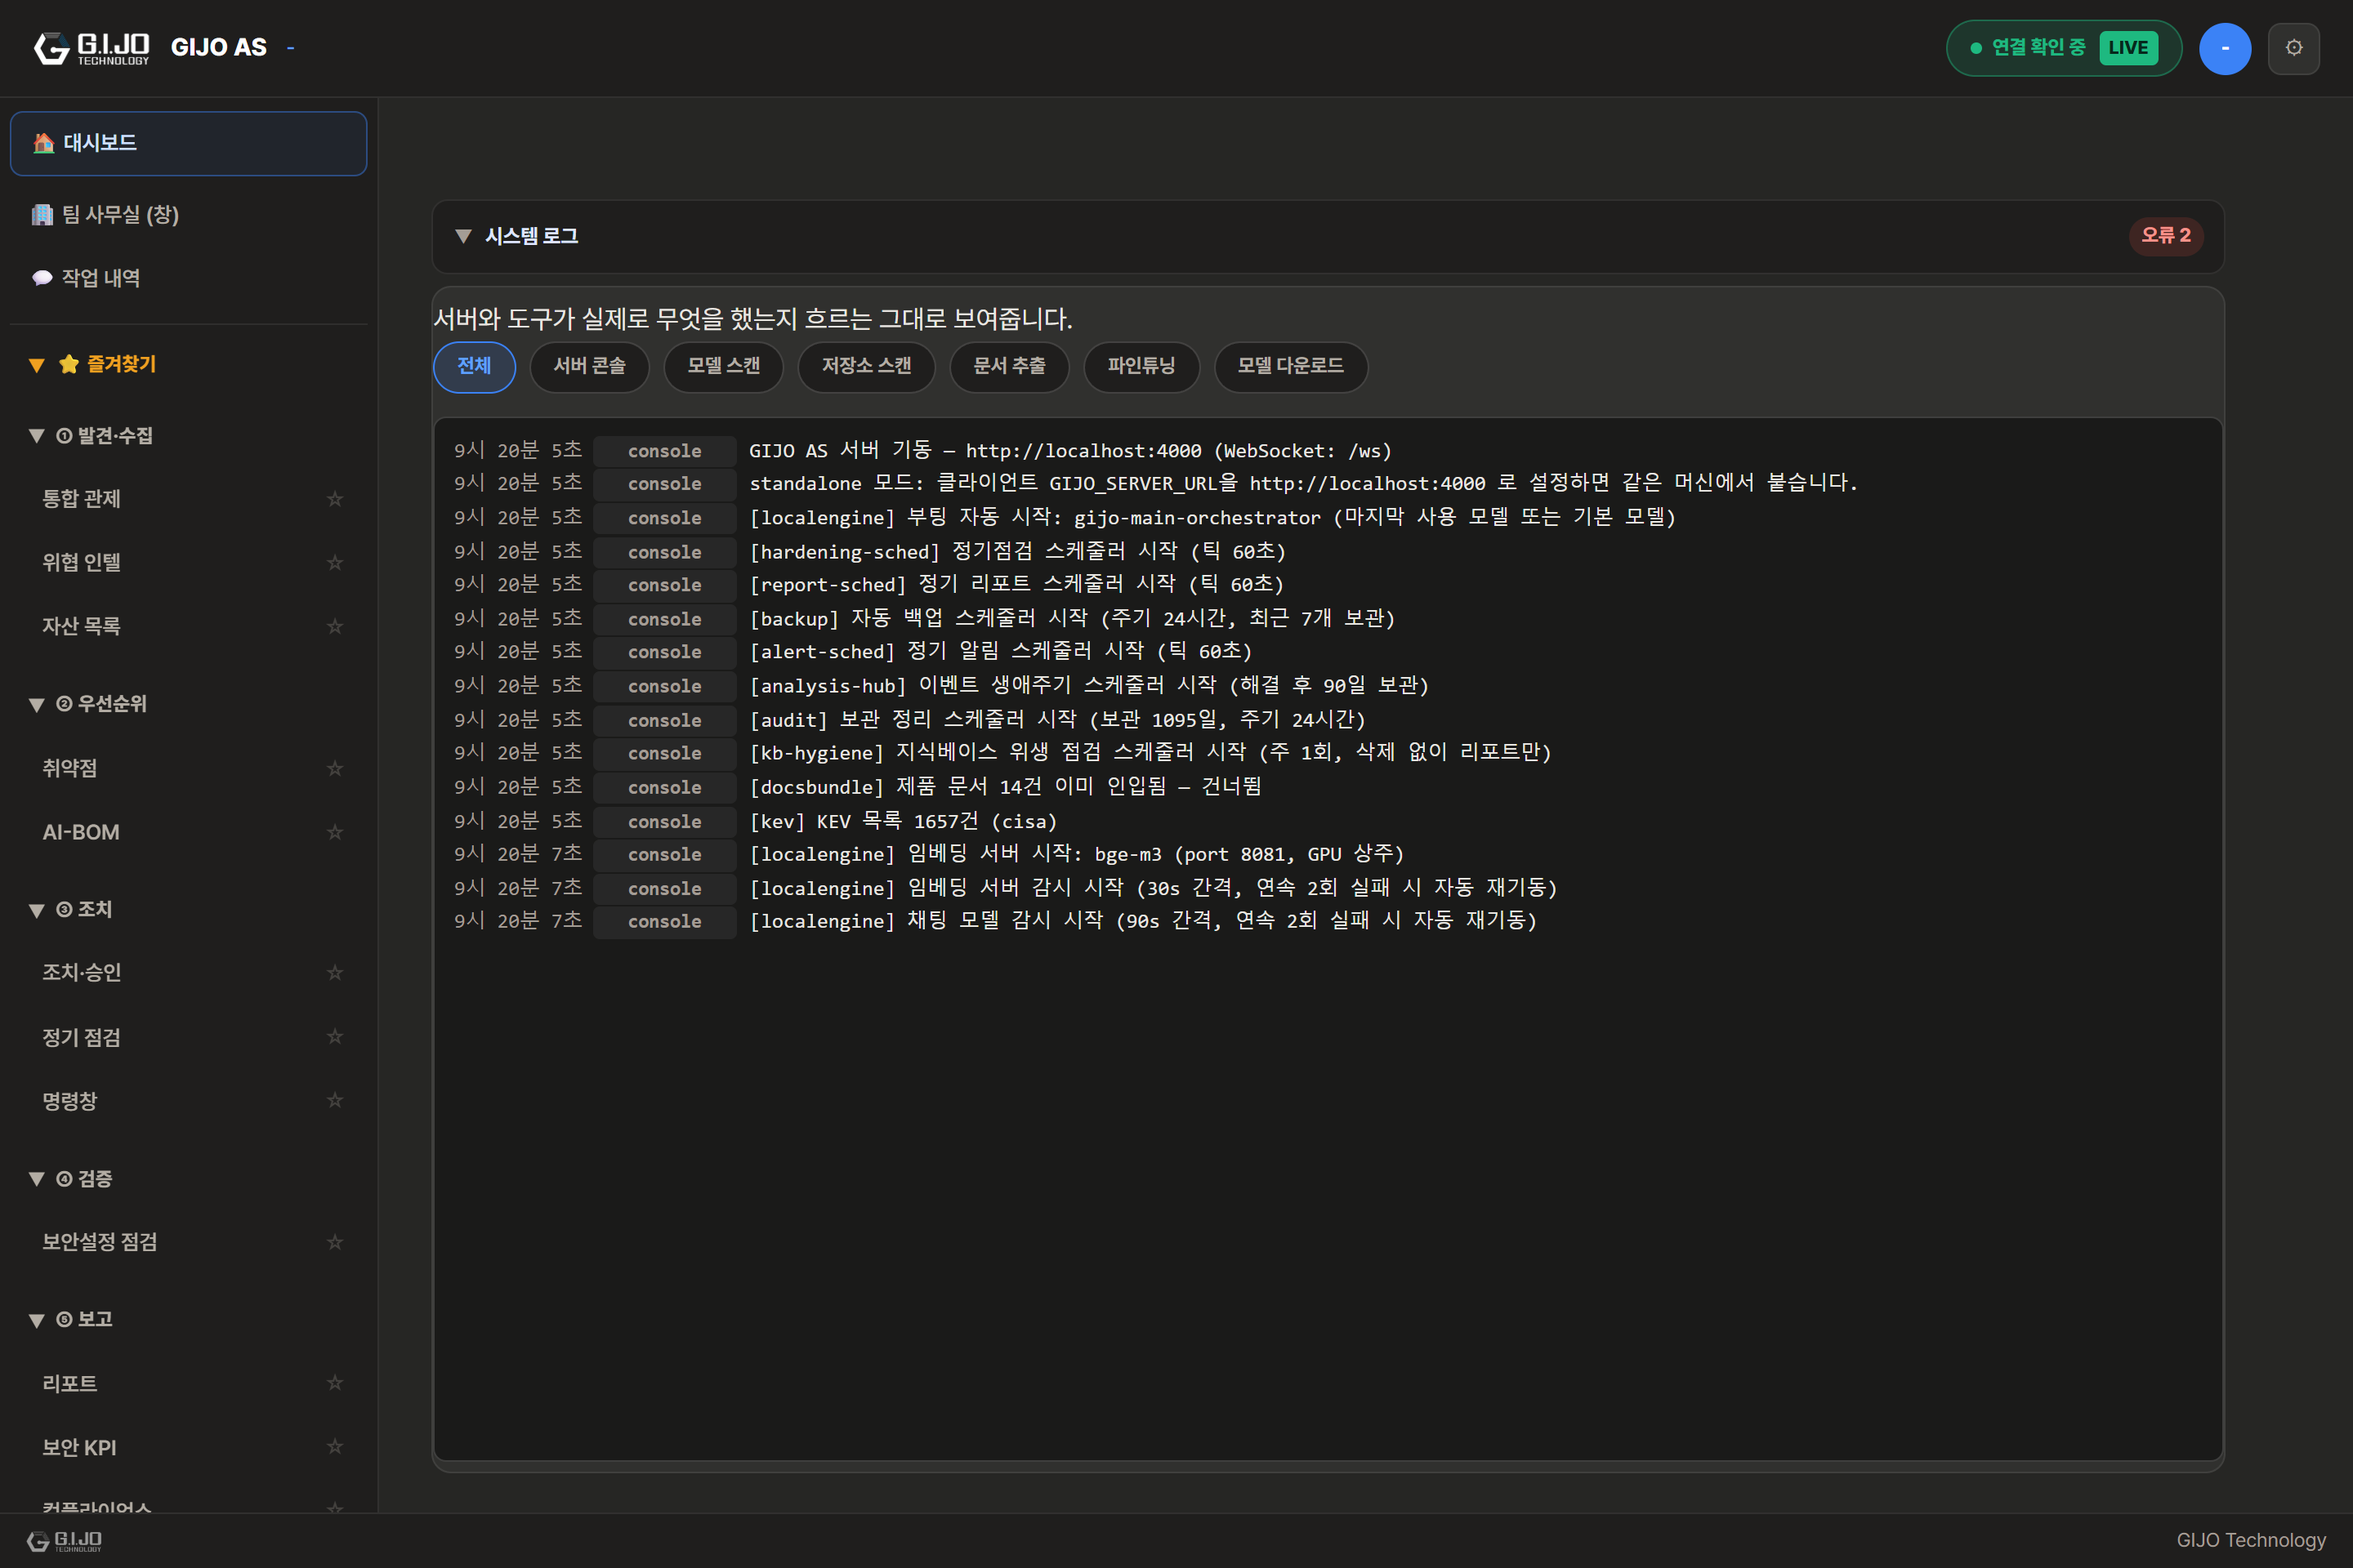
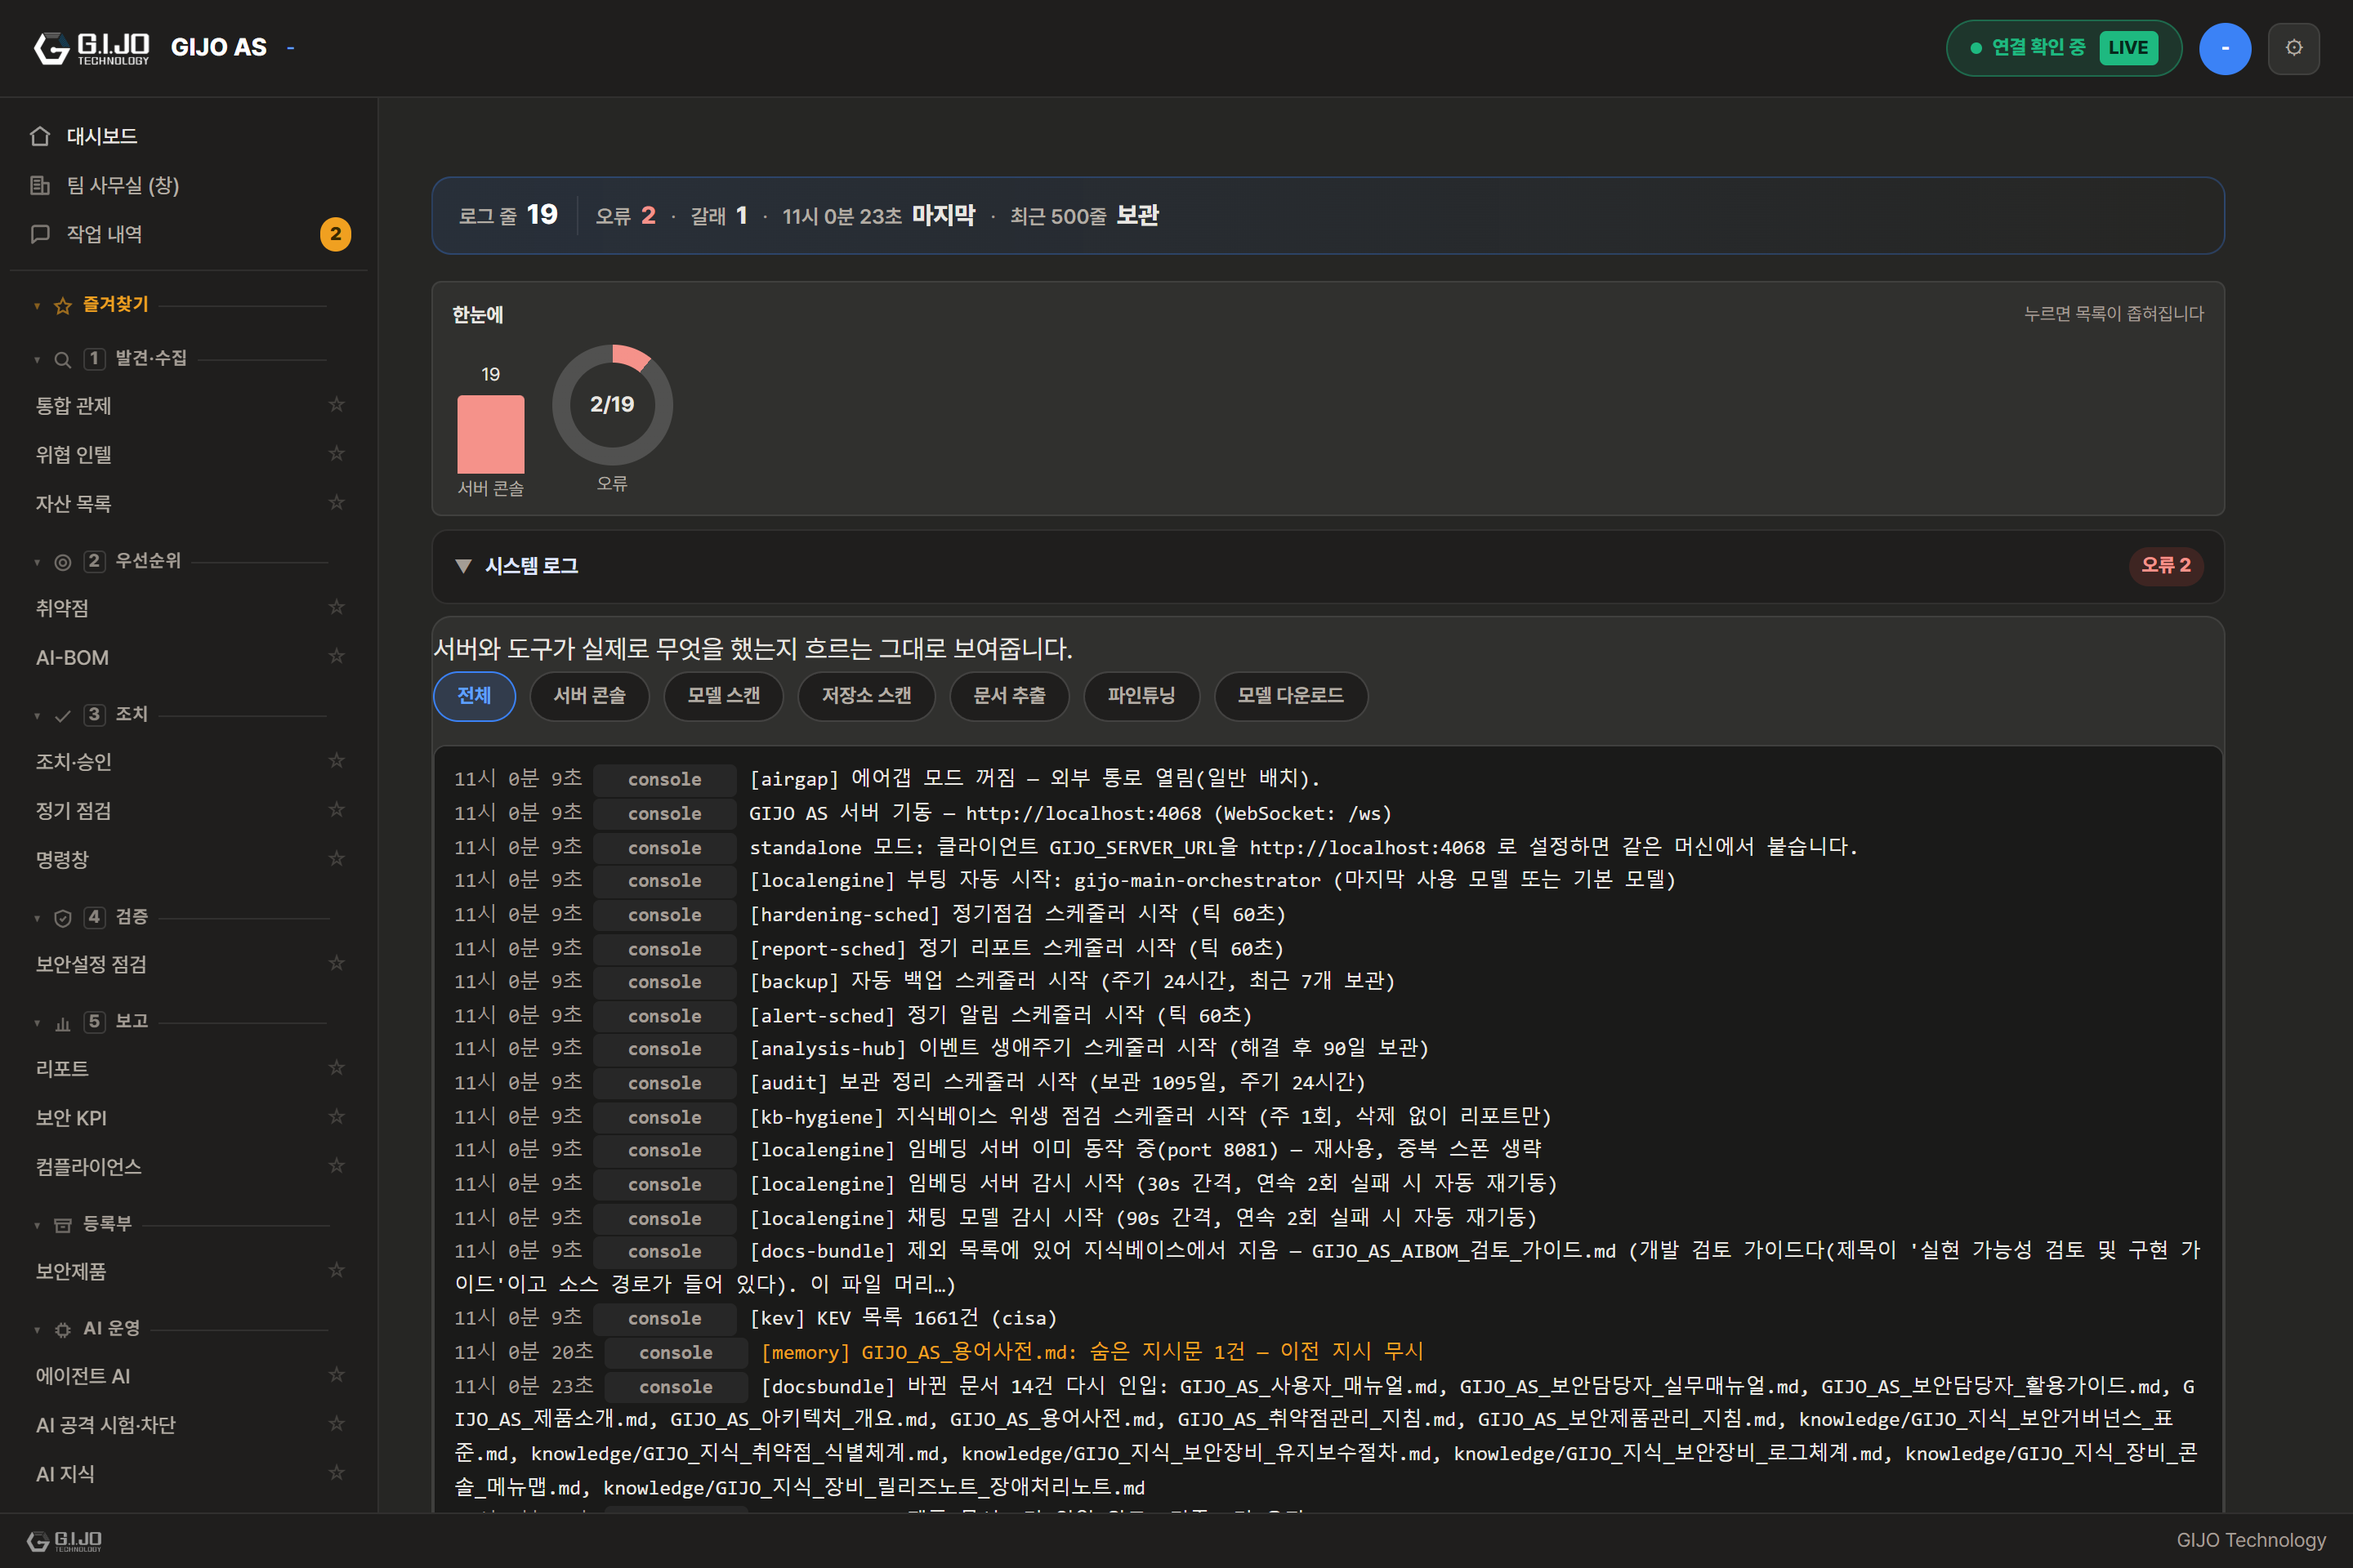
시연 덱 스크린샷 재촬영 — 5.0.1 화면을 5.7.2로 (전-1). 격리 서버(4068)+백데이터 방식, 30장 갱신, 대시보드 육안 확인(새 상단바·인사 3단계·현행 사이드바)

diff --git a/GIJO_AS_시연_패키지.md b/GIJO_AS_시연_패키지.md
@@ -1,6 +1,6 @@
 # GIJO AS — 4대 시나리오 시연 패키지 (계획서 전-1)
 
-- 작성: 2026-07-29 · **화면 갱신: 2026-08-04 · 기준 버전: 클라 5.0.1 · 대사 재실측: 2026-08-07(클라 5.7.2)** — 지시 10문장을 운영에 다시 던져 대조했다
+- 작성: 2026-07-29 · **화면 갱신: 2026-08-07(클라 5.7.2) · 대사 재실측: 2026-08-07** — 지시 10문장을 운영에 다시 던져 대조했다
 - 캡처: `screenshots/deck/` (운영 서버 실데이터, 목업 아님)
   - ⚠ 예전 `demos/` 사진(2026-07-29 · 클라 4.5.0)은 **8월 2일 메뉴 개편 전**이라 지금 화면과 다릅니다.
     보관은 하되 시연·제안에는 쓰지 마십시오 — 고객이 "이 메뉴 어디 있어요?"라고 물으면 답이 없습니다.
